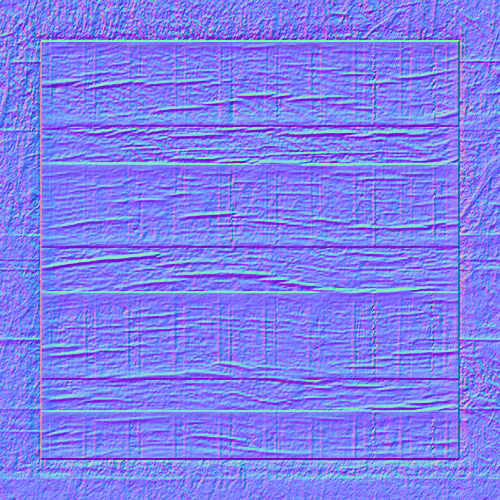
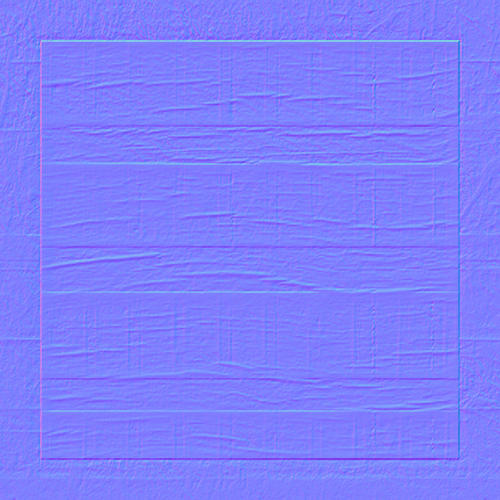
Added normal mapping

diff --git a/core/flare/src/assets/model.cpp b/core/flare/src/assets/model.cpp
@@ -69,6 +69,12 @@ void processNode(aiNode *node, const aiScene *scene, flare::asset::Model *model)
 	    normal.z = meshAi->mNormals[i].z;
 	    vertex.normal = normal;
 
+	    glm::vec3 tangent;
+	    tangent.x = meshAi->mTangents[i].x;
+	    tangent.y = meshAi->mTangents[i].y;
+	    tangent.z = meshAi->mTangents[i].z;
+	    vertex.tangent = tangent;
+
 	    if (meshAi->mTextureCoords[0]) {
 
 		glm::vec2 vec;
@@ -111,7 +117,10 @@ void processNode(aiNode *node, const aiScene *scene, flare::asset::Model *model)
 	glVertexAttribPointer(1, 3, GL_FLOAT, GL_FALSE, sizeof(flare::asset::model::Vertex), (GLvoid*)offsetof(flare::asset::model::Vertex, normal));
 
 	glEnableVertexAttribArray(2);
-	glVertexAttribPointer(2, 2, GL_FLOAT, GL_FALSE, sizeof(flare::asset::model::Vertex), (GLvoid*)offsetof(flare::asset::model::Vertex, texCoords));
+	glVertexAttribPointer(2, 3, GL_FLOAT, GL_FALSE, sizeof(flare::asset::model::Vertex), (GLvoid*)offsetof(flare::asset::model::Vertex, tangent));
+
+	glEnableVertexAttribArray(3);
+	glVertexAttribPointer(3, 2, GL_FLOAT, GL_FALSE, sizeof(flare::asset::model::Vertex), (GLvoid*)offsetof(flare::asset::model::Vertex, texCoords));
 
 	model->meshes.push_back(mesh);
     }
@@ -132,7 +141,7 @@ void flare::asset::Model::_load() {
     // Generating and binding vao for the object
     std::string fileName = "./" + name + ".obj";
     Assimp::Importer import;
-    const aiScene* scene = import.ReadFile(fileName, aiProcess_Triangulate || !scene->mRootNode);
+    const aiScene* scene = import.ReadFile(fileName, aiProcess_Triangulate | aiProcess_FlipUVs | aiProcess_CalcTangentSpace);
     if (!scene || scene->mFlags == AI_SCENE_FLAGS_INCOMPLETE || !scene->mRootNode) {
 	print::e("AssImp error: %s", import.GetErrorString());
 	exit(-1);

diff --git a/game/src/demo.cpp b/game/src/demo.cpp
@@ -42,7 +42,7 @@ int main() {
 
     for (int i = 0; i < 9; ++i) {
 
-	fuse::Entity *cube = fuse::createEntity("Containter");
+	fuse::Entity *cube = fuse::createEntity("Container");
 	cube->addComponent<flare::component::Position>(cubePositions[i]);
 	cube->addComponent<flare::component::Rotation>(glm::radians(20.0f * i), glm::vec3(0.5f, 1.0f, 0.0f));
 	cube->addComponent<flare::component::Object>("cube", "base/object", "base/container");
@@ -51,7 +51,7 @@ int main() {
     fuse::Entity *cube = fuse::createEntity("Container");
     cube->addComponent<flare::component::Position>(cubePositions[9]);
     cube->addComponent<flare::component::Rotation>(glm::radians(20.0f * 9), glm::vec3(0.5f, 1.0f, 0.0f));
-    cube->addComponent<flare::component::Object>("nanosuit", "base/object", "base/container");
+    cube->addComponent<flare::component::Object>("cube", "base/object", "base/container");
 
     fuse::Entity *lamp = fuse::createEntity("Lamp");
     lamp->addComponent<flare::component::Position>(flare::render::getState()->light.position);

diff --git a/core/flare/include/flare/assets/model.h b/core/flare/include/flare/assets/model.h
@@ -12,6 +12,7 @@ namespace flare {
 	    struct Vertex {
 		glm::vec3 position;
 		glm::vec3 normal;
+		glm::vec3 tangent;
 		glm::vec2 texCoords;
 	    };
 
